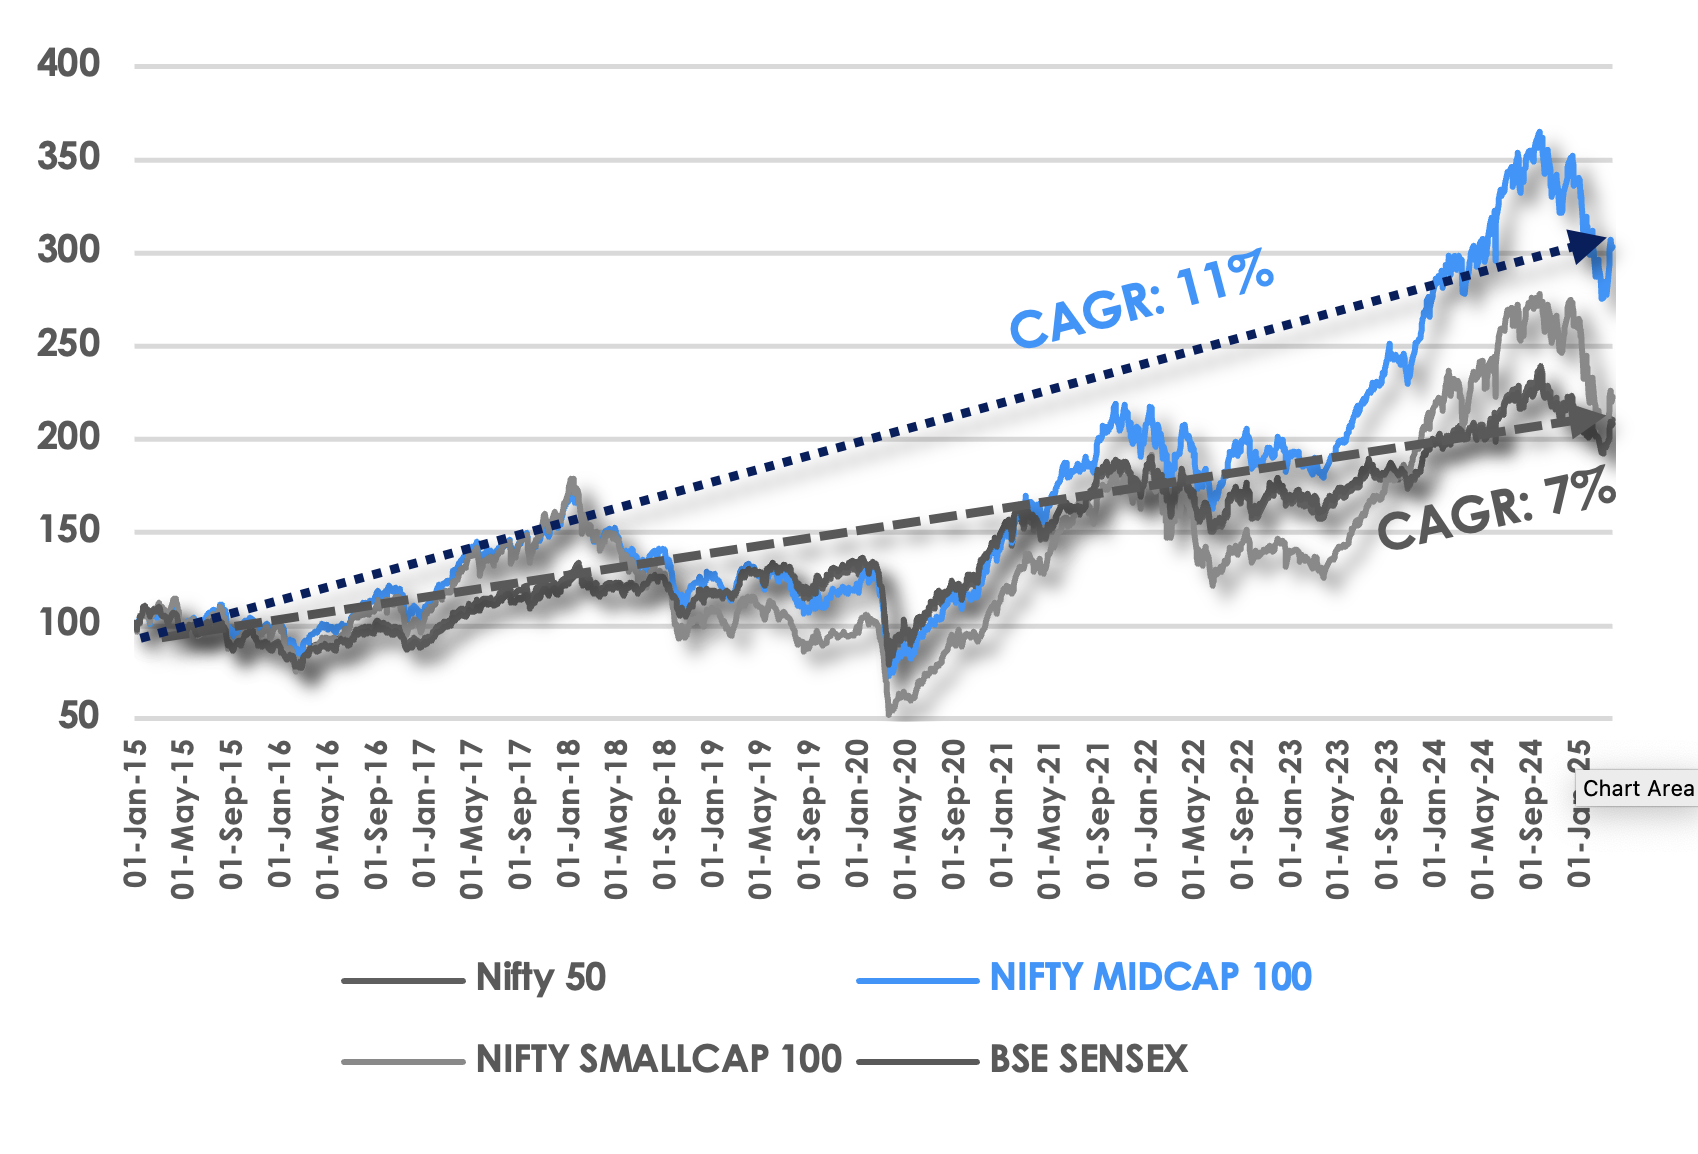
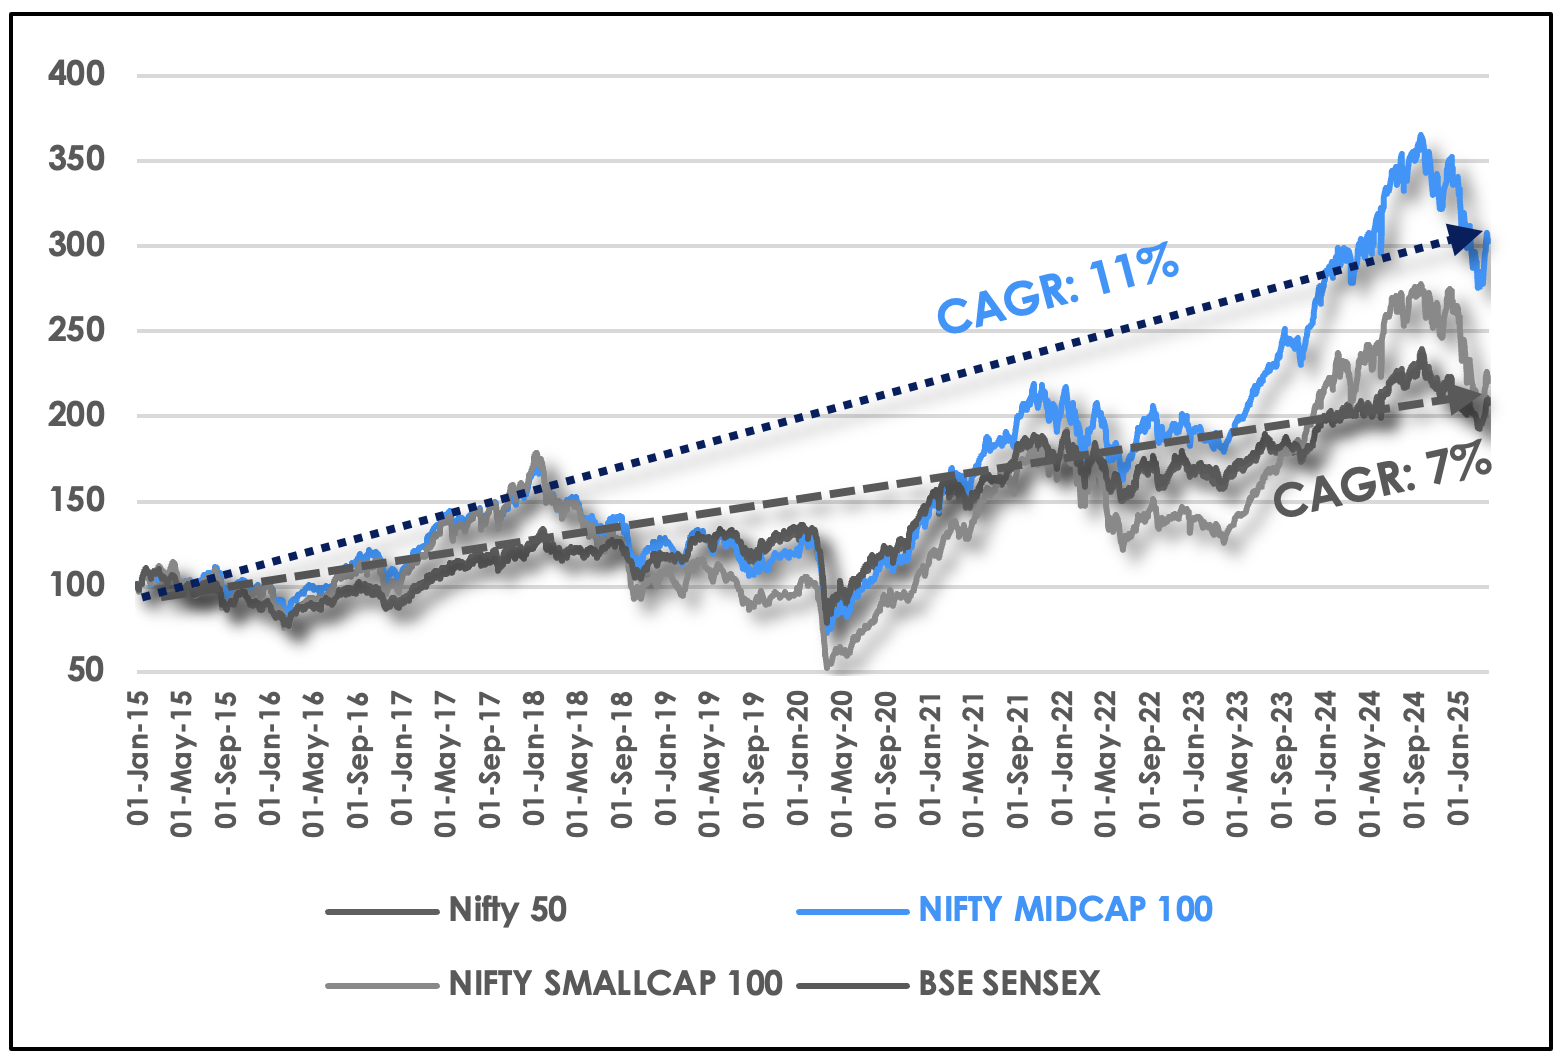
20250414: updating files 14

Changed region(s): [[0.0, 0.0, 1.0, 0.9944], [0.0, 0.435, 0.0613, 0.4972]]

diff --git a/app/India-on-the-Rise/page.js b/app/India-on-the-Rise/page.js
@@ -20,8 +20,8 @@ export default function IndiaontheRise() {
         <h2>Economic Powerhouse: Growth & Drivers</h2>
         <p>
           India&apos;s GDP growth is projected to remain robust, estimated between <span className={styles.bold}>6-7%</span> for 2025. This resilience
-          is fueled by strong domestic demand, accelerating digital transformation, and supportive government
-          initiatives like <span className={styles.bold}>&apos;Atmanirbhar Bharat</span>&apos; (Self-reliant India) and &apos;<span className={styles.bold}>Make in India</span>&apos;.
+          is fueled by <span className={styles.bold}>strong domestic demand, accelerating digital transformation, and supportive government
+          initiatives</span> like <span className={styles.bold}>&apos;Atmanirbhar Bharat</span>&apos; (Self-reliant India) and &apos;<span className={styles.bold}>Make in India</span>&apos;.
         </p>
         <div className={styles.chartGrid}>
           <div className={styles.chartContainer}>
@@ -95,16 +95,16 @@ export default function IndiaontheRise() {
           <p><span className={styles.bold}>Interest Rates & RBI Policy Stance: </span><br /></p>
         <ul className={styles.list}>
           <li>
-          <span className={styles.bold}>Recent Rate Cut: </span>
-          Recent Rate Cut: On February 7, 2025, the Reserve Bank of India (RBI) reduced the repo rate by 25 basis points, bringing it down from 6.50% to 6.25%, aiming to stimulate economic growth amid easing inflation.</li>
+          <span className={styles.bold}>Recent Rate Cut: </span><br />
+          On February 7, 2025, the Reserve Bank of India (RBI) reduced the repo rate by 25 basis points, bringing it down from 6.50% to 6.25%, aiming to stimulate economic growth amid easing inflation.</li>
           <li>
-          <span className={styles.bold}>Neutral Policy Stance: </span>
+          <span className={styles.bold}>Neutral Policy Stance: </span><br />
           Despite the rate cut, the RBI maintained a <span className={styles.bold}>&apos;neutral&apos;</span> policy stance, focusing on achieving a durable alignment of inflation with the target while supporting growth.</li>
           <li>
-          <span className={styles.bold}>Anticipated Future Rate Cuts: </span>
+          <span className={styles.bold}>Anticipated Future Rate Cuts: </span><br />
           Market analysts project further rate cuts in 2025, with expectations of an additional <span className={styles.bold}>50 basis points reduction by August</span>, as the RBI seeks to balance growth and inflation dynamics.</li>
           <li>
-          <span className={styles.bold}>Mid to Long-Term Projections (2027-2031): </span>
+          <span className={styles.bold}>Mid to Long-Term Projections (2027-2031): </span><br />
           Specific forecasts for the RBI&apos;s policy rates beyond 2026 are limited. However, the central bank&apos;s actions will likely be influenced by factors such as <span className={styles.bold}>domestic inflation trends, economic growth rates, and global financial conditions.</span></li>
         </ul>
         </p>
@@ -126,7 +126,7 @@ export default function IndiaontheRise() {
           <span className={styles.bold}>Fiscal Deficit Reduction: </span><br />
           The government aims to decrease the fiscal deficit from <span className={styles.bold}>4.8% of GDP in FY 2024-25 to 4.4% in FY 2025-26</span>, demonstrating a commitment to fiscal consolidation.</li>
           <li>
-          <span className={styles.bold}>Debt-to-GDP Ratio Goal:</span>
+          <span className={styles.bold}>Debt-to-GDP Ratio Goal:</span><br />
           A strategic objective has been set to reduce the central government&apos;s debt-to-GDP ratio from <span className={styles.bold}>57.1% in FY 2024-25 to 50% by March 2031</span>, promoting long-term fiscal sustainability.</li>
         </ul>
         </p>
@@ -142,7 +142,7 @@ export default function IndiaontheRise() {
         </div>
       </div>
     </section><section className={styles.section}>
-        <h2>Capital Markets: Performance & Volatility - INR</h2>
+        <h2>Capital Markets: Performance & Volatility - in INR Terms</h2>
         <p>
           Indian equity markets have delivered strong returns over the medium to long term, albeit with periods of volatility.
           In INR terms, major indices like the Nifty 50 and BSE Sensex have shown significant growth, with Midcap and Smallcap indices
@@ -156,7 +156,7 @@ export default function IndiaontheRise() {
               width={1000}
               height={500}
               className={styles.chartImage} />
-            <p className={styles.chartCaption}><span className={styles.bold}>Capital Market Performance INR - Indices (10 Year)</span>. Source: Quantwater Analysis</p>
+            <p className={styles.chartCaption}><span className={styles.bold}>Capital Market Performance INR - Indices (Last 10 Years)</span>. Source: Quantwater Analysis</p>
           </div>
         </div>
         <div className={styles.chartGrid}>
@@ -167,7 +167,7 @@ export default function IndiaontheRise() {
               width={1000}
               height={500}
               className={styles.chartImage} />
-            <p className={styles.chartCaption}><span className={styles.bold}>Capital Market Performance INR - Indices (6 Year)</span>. Source: Quantwater Analysis</p>
+            <p className={styles.chartCaption}><span className={styles.bold}>Capital Market Performance INR - Indices (Last 6 Year)</span>. Source: Quantwater Analysis</p>
           </div>
         </div>
         <div className={styles.chartGrid}>
@@ -214,11 +214,10 @@ export default function IndiaontheRise() {
             <p className={styles.chartCaption}><span className={styles.bold}>Historical Returns: 6 Years</span>. Source: Quantwater Analysis</p>
           </div>
         </div>
-        <h3>Sector Performance - INR</h3>
+        <h3>Sector Performance - in INR Terms</h3>
         <p>
           Sector performance varies, with IT, Banking,
-          and Infrastructure showing distinct trends. When viewed in USD terms, returns are moderated by currency fluctuations,
-          highlighting the importance of the INR/USD exchange rate for foreign investors.
+          and Infrastructure showing distinct trends.
         </p>
         <div className={styles.chartGrid}>
           <div className={styles.chartContainer}>
@@ -286,7 +285,7 @@ export default function IndiaontheRise() {
             <p className={styles.chartCaption}><span className={styles.bold}>Historical Returns – 6 Years</span>. Source: Quantwater Analysis</p>
           </div>
         </div>
-        <h3>Volatility - INR</h3>
+        <h3>Volatility - in INR Terms</h3>
         <p>
           Volatility remains a factor, influenced by domestic policy, global events, and fund flows. Understanding historical return patterns
           and volatility characteristics is crucial for asset allocation.
@@ -406,7 +405,7 @@ export default function IndiaontheRise() {
             <p className={styles.chartCaption}><span className={styles.bold}>Historical Returns – 6 Years</span>. Source: Quantwater Analysis</p>
           </div>
         </div>
-        <h3>Sector Performance - USD</h3>
+        <h3>Sector Performance - in USD Terms</h3>
         <p>
           Sectoral returns adjusted after taking into consideration currency returns impact, from the perspective of an investor whose base currency is USD or a USD-pegged currency.
         </p>
@@ -476,7 +475,7 @@ export default function IndiaontheRise() {
             <p className={styles.chartCaption}><span className={styles.bold}>Historical Returns – 6 Years</span>. Source: Quantwater Analysis</p>
           </div>
         </div>
-        <h3>Volatility - USD</h3>
+        <h3>Volatility - in USD Terms</h3>
         <p>
           Volatility adjusted after taking into consideration currency volatility impact, from the perspective of an investor whose base currency is USD or a USD-pegged currency.
         </p>
@@ -528,7 +527,7 @@ export default function IndiaontheRise() {
                 width={700}
                 height={400}
                 className={styles.chartImage} />
-              <p className={styles.chartCaption}><span className={styles.bold}>G-Sec Yield Curve Dynamics</span>. Source: Quantwater Analysis</p>
+              <p className={styles.chartCaption}><span className={styles.bold}>10Y G-Sec Yield %</span>. Source: Quantwater Analysis</p>
             </div>
           </div>
           <div className={styles.chartGrid}>
@@ -539,7 +538,7 @@ export default function IndiaontheRise() {
                 width={700}
                 height={400}
                 className={styles.chartImage} />
-              <p className={styles.chartCaption}><span className={styles.bold}>G-Sec Yield Curve Dynamics</span>. Source: Quantwater Analysis</p>
+              <p className={styles.chartCaption}><span className={styles.bold}>5Y G-Sec Yield %</span>. Source: Quantwater Analysis</p>
             </div>
           </div>
           
@@ -551,7 +550,7 @@ export default function IndiaontheRise() {
                 width={700}
                 height={400}
                 className={styles.chartImage} />
-              <p className={styles.chartCaption}><span className={styles.bold}>Normal positive slope maintained across all periods, suggesting economic growth expectations</span>. Source: Quantwater Analysis</p>
+              <p className={styles.chartCaption}><span className={styles.bold}>Yield Curve: Normal positive slope maintained across all periods, suggesting economic growth expectations</span>. Source: Quantwater Analysis</p>
             </div>
           </div>
           <p><span className={styles.bold}>OMO – Impact of RBI bond purchases </span><br /></p>
@@ -564,7 +563,7 @@ export default function IndiaontheRise() {
               First auction saw strongest demand for mid-to-long dated securities with 8.24% GS 2033 receiving highest allocation (₹7,660 crore)
               </li>
               <li>
-              These operations support the current positive yield curve slope and demonstrate RBI&apos;s proactive approach to maintaining orderly market conditions amid changing interest rate environment</li>
+              These operations support the current positive yield curve slope and demonstrate <span className={styles.bold}>RBI&apos;s proactive approach to maintaining orderly market conditions</span> amid changing interest rate environment</li>
             </ul>
           <div className={styles.chartGrid}>
             <div className={styles.chartContainer}>
@@ -574,7 +573,7 @@ export default function IndiaontheRise() {
                 width={700}
                 height={400}
                 className={styles.chartImage} />
-              <p className={styles.chartCaption}><span className={styles.bold}>Average India-US 10 Y yield spread is 4.5% over the last 10 years</span>. Source: Quantwater Analysis</p>
+              <p className={styles.chartCaption}><span className={styles.bold}>India-US 10Y Yield Spread: Average spread is 4.5% over the last 10 years</span>. Source: Quantwater Analysis</p>
             </div>
           </div>
           <div className={styles.chartGrid}>
@@ -585,7 +584,7 @@ export default function IndiaontheRise() {
                 width={700}
                 height={400}
                 className={styles.chartImage} />
-              <p className={styles.chartCaption}><span className={styles.bold}>Average 10Y G-Sec - repo rate spread is ~1.0% over the last 10 years</span>. Source: Quantwater Analysis</p>
+              <p className={styles.chartCaption}><span className={styles.bold}>10Y G-Sec - Repo Rate Spread: Average spread is ~1.0% over the last 10 years</span>. Source: Quantwater Analysis</p>
             </div>
           </div>
           <h2>Fixed Income Landscape - Corporate Bonds</h2>
@@ -598,8 +597,8 @@ export default function IndiaontheRise() {
               <Image
                 src="/Resources/indian-market-overview/FIM-6.png"
                 alt="Spread Over 5Y G-Sec yields (bps)"
-                width={100}
-                height={50}
+                width={700}
+                height={400}
                 className={styles.chartImage} />
               <p className={styles.chartCaption}><span className={styles.bold}>Chart - Spread Over 5Y G-Sec yields. Credit spreads represent the additional yield investors demand for holding corporate bonds over government securities (G-Secs), compensating for credit risk and issuer uncertainty.(bps)
               </span>. Source: Quantwater Analysis</p>
@@ -666,7 +665,7 @@ export default function IndiaontheRise() {
           <div className={styles.chartGrid}>
             <div className={styles.chartContainer}>
               <Image
-                src="/images/indian-market/FICM-1.png"
+                src="/images/indian-market-overview/FICM-1.png"
                 alt="FDI Flows – Sector wise equity inflow from Apr 2000 to Dec 2024"
                 width={600}
                 height={400}
@@ -677,7 +676,7 @@ export default function IndiaontheRise() {
           <div className={styles.chartGrid}>
             <div className={styles.chartContainer}>
               <Image
-                src="/images/indian-market/FICM-2.png"
+                src="/images/indian-market-overview/FICM-2.png"
                 alt="FII Flows - AUC"
                 width={600}
                 height={400}
@@ -688,7 +687,7 @@ export default function IndiaontheRise() {
           <div className={styles.chartGrid}>
             <div className={styles.chartContainer}>
               <Image
-                src="/images/indian-market/FICM-3.png"
+                src="/images/indian-market-overview/FICM-3.png"
                 alt="INR/USD Exchange Rate"
                 width={600}
                 height={400}
@@ -721,8 +720,8 @@ export default function IndiaontheRise() {
             <li><strong>Geopolitical Tensions:</strong> Conflicts and trade disputes can disrupt supply chains and fuel commodity price volatility (especially oil).</li>
             <li><strong>Sticky Inflation:</strong> Persistent core inflation could prompt further RBI tightening, impacting demand.</li>
             <li><strong>Global Rate Hikes:</strong> Actions by major central banks (Fed, ECB) can trigger capital outflows.</li>
-            <li><strong>Strengthening Tech & Crypto Regulations in Response to Data Misuse & Privacy Breaches
-            </strong> <span className={styles.bold}>Global momentum around tech regulation is intensifying</span>, particularly in <span className={styles.bold}>data privacy</span> — a necessary shift in response to increasing misuse with reagrds to exploitation of personal information. Regulatory scrutiny is also rising in areas like antitrust and AI ethics. 
+            <li><strong>Strengthening Tech & Crypto Regulations in Response to Data Misuse & Privacy Breaches: 
+            </strong> <span className={styles.bold}>Global momentum around tech regulation is intensifying</span>, particularly in <span className={styles.boldRed}>data privacy</span> — a necessary shift in response to increasing misuse with reagrds to exploitation of personal information. Regulatory scrutiny is also rising in areas like antitrust and AI ethics. 
             </li>
           </ul>
         </section><footer className={styles.articleFooter}>
@@ -733,11 +732,11 @@ export default function IndiaontheRise() {
           <p>
             <br />Spreadsheet with raw data:
             <a href="https://quantwater.tech/databook.xlsx" target="_blank" rel="noopener noreferrer">
-              <span className={styles.linkText}>Databook</span>
+              <span className={styles.linkText}> Databook</span>
             </a>
             <br />Deck:
             <a href="https://quantwater.tech/IndiaontheRise.pdf" target="_blank" rel="noopener noreferrer">
-              <span className={styles.linkText}>India on the Rise - Deck</span>
+              <span className={styles.linkText}> India on the Rise - Deck</span>
             </a>
           </p>
         </footer>
